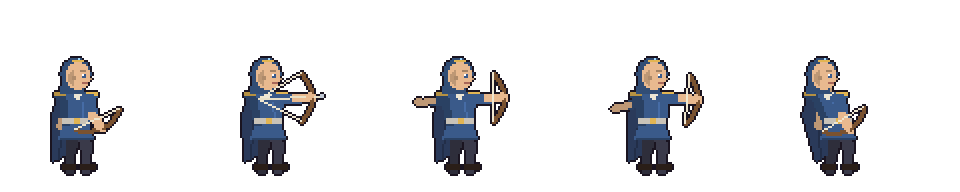
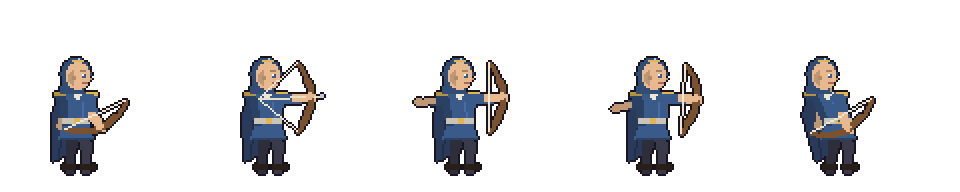
Weapon types locked to each character's starting type; forge events; bigger sniper bows
- Cast classes and their ascensions wield only the type of weapon the character
  starts with (Snipers can't use blades); Menders keep charms and arts
- Crusaders are given a Holy Sword alongside their staff or charm on ascending
- Snipers carry a bigger bow
- New events: The Old King's Forge (temper every weapon +1 with Weary Legs next
  fight, or +2 to one weapon) and The Weaponmaster (35 gold: trade a weapon up to the
  next tier of the same kind, or a 60 EXP lesson)
- New Yew Greatbow as the longbow's upgrade (keeps range 2–3)

Claude-Session: https://claude.ai/code/session_01U4Tdmi4d75jwBVR3wHrYsm

diff --git a/js/14b-cast.js b/js/14b-cast.js
@@ -4,7 +4,7 @@
    tattoo, scar, wraps (hand wraps), mask, voidFace, mist (dark mist round the hand), hand (casts from the open hand), el (spell glow colour),
    staff/orb (staff colours), nature (branch staff), jag (jagged daggers), dblAxe (two-headed axe), joust + lanceC (jousting lance),
    barding (horse armour), bolt / hem (robe trims), tails (sash ribbons), stance (idle: shoulder/low/guard/draw/high),
-   bracers (wristguards + shoulder plate), lapels, boots (tall boots), noCrown (no gold band when ascended),
+   bigBow (a larger bow), bracers (wristguards + shoulder plate), lapels, boots (tall boots), noCrown (no gold band when ascended),
    style also takes 'mane' (longer hair) and 'bunback', shield (round/kite/tower/aegis), gear also takes 'nursecap', prop ('lyre': held instead of a weapon).
    Preview them all: node tools/export-cast.mjs (writes docs/visuals/cast/). */
 
@@ -31,11 +31,12 @@ for(const n in CAST_CLASSES){const base=ensureCls('G.'+CAST_CLASSES[n]);const C=
 /* ---- the characters ----
    cls: their class, wk: the weapon they hold, look: their look.
    asc: one entry per ascension; its look is laid over the base look (wk is the weapon drawn in the previews).
-   swap: on ascending, this weapon in their bag becomes wk (only Holt: crossbow to longbow as a Sniper). */
+   swap: on ascending, this weapon in their bag becomes wk (only Holt: crossbow to longbow as a Sniper).
+   gain: on ascending, they're given this weapon too (Crusaders get a holy sword alongside their staff or charm). */
 const CAST=[
   /* ---- starting roster ---- */
   {id:'kili',name:'Kili',cls:'Archer',wk:'longbow',joins:'start',look:{style:'tail',hair:'#4a3426',skin:'#e8b98f',cloth:'#4a6a3a',pants:'#5a4a32',sash:'#7a5230',feather:['#efe6cf','#c8322e','#efe6cf'],eye:'#3a6a3a'},
-    asc:{'Sniper':{wk:'hawkeyeBow',look:{capeC:'#2f4a2a',cloth:'#3f5a32',feather:['#efe6cf','#c8322e','#efe6cf','#c8322e']}},
+    asc:{'Sniper':{wk:'hawkeyeBow',look:{bigBow:true,capeC:'#2f4a2a',cloth:'#3f5a32',feather:['#efe6cf','#c8322e','#efe6cf','#c8322e']}},
          'Bow Cavalry':{wk:'longbow',look:{capeC:'#5a4a32',horse:'#7a5230'}}}},
   {id:'vaar',name:'Vaar',cls:'Brawler',wk:'ironAxe',joins:'start',look:{style:'long',beard:true,hair:'#8a5a2a',skin:'#f3cfa6',cloth:'#6b4a2a',pants:'#4a3a2a',sash:'#a8743a',tattoo:'#3a6ab0',eye:'#3a5a8a'},
     asc:{'Berserker':{wk:'labrys',look:{style:'wild',capeC:'#5a4a3a',shawl:'#8a7a62',dblAxe:true,stance:'shoulder'}}}},
@@ -50,7 +51,7 @@ const CAST=[
          'Paladin':{look:{capeC:'#b8322e',horse:'#e8e2d0'}}}},
   {id:'maelis',name:'Maelis',cls:'Mender',wk:'runeStaff',joins:'start',look:{fem:true,style:'long',hair:'#6b4226',skin:'#f6dcc4',cloth:'#efe6cf',sash:'#e2b553',shawl:'#fff8e8',staff:'#e2b553',orb:'#fff2b0',eye:'#3a5a8a'},
     asc:{'Saint':{look:{gear:'circlet',capeC:'#fff8e8',collar:'#efe6cf'}},
-         'Crusader':{wk:'holySword',look:{metal:'#e8e2d0',shield:'kite',shieldC:'#efe6cf',capeC:'#e2b553',shawl:null}}}},
+         'Crusader':{wk:'holySword',gain:'holySword',look:{metal:'#e8e2d0',shield:'kite',shieldC:'#efe6cf',capeC:'#e2b553',shawl:null}}}},
   {id:'rook',name:'Rook',cls:'Rogue',wk:'twinBlades',joins:'start',look:{style:'wild',hair:'#1d1a24',skin:'#c98e62',cloth:'#3a3036',pants:'#2a2226',sash:'#5a4a3a',wraps:'#c9bfa8',jag:true,eye:'#2a2230'},
     asc:{'Duelist':{wk:'needle',look:{cloth:'#4a3a4a',sash:'#c8322e',capeC:'#2a2230',jag:null}},
          'Assassin':{wk:'stiletto',look:{gear:'hood',mask:'#4a4656',capeC:'#1e1a22',cloth:'#2a2230'}}}},
@@ -62,12 +63,12 @@ const CAST=[
   /* ---- found during the run (joins:'tavern' only at the tavern, 'event' only through their own event) ---- */
   {id:'aletta',name:'Aletta',cls:'Mender',wk:'spiritMend',joins:'tavern',look:{fem:true,style:'bun',hair:'#a8743a',skin:'#f3cfa6',cloth:'#5a8a5a',sash:'#efe6cf',shawl:'#dfe8d0',gear:'nursecap',eye:'#3a6a3a'},
     asc:{'Saint':{wk:'runeStaff',look:{gear:'circlet',capeC:'#dfe8d0',staff:'#e2b553',orb:'#9fe8c0'}},
-         'Crusader':{wk:'holySword',look:{gear:null,metal:'#b8d0b0',shield:'kite',shieldC:'#5a8a5a',capeC:'#3f6a3f',shawl:null}}}},
+         'Crusader':{wk:'holySword',gain:'holySword',look:{gear:null,metal:'#b8d0b0',shield:'kite',shieldC:'#5a8a5a',capeC:'#3f6a3f',shawl:null}}}},
   {id:'trent',name:'Trent',cls:'Cavalier',wk:'ironSpear',joins:'run',look:{style:'short',hair:'#3a2a20',skin:'#e8b98f',cloth:'#3f7a4a',metal:'#a9c4a2',horse:'#4a3426',eye:'#3a6a3a'},
     asc:{'Paladin':{look:{capeC:'#3f7a4a',metal:'#c4dcbc',shield:'kite',shieldC:'#3f7a4a'}},
          'Warlord':{look:{capeC:'#25603a',metal:'#7a9a72',beard:true,barding:'#1e3a24',joust:true,lanceC:'#e8e2d0'}}}},
   {id:'holt',name:'Holt',cls:'Crossbowman',wk:'crossbow',joins:'run',look:{style:'short',hair:'#e8e2d0',skin:'#e8b98f',cloth:'#3a5a8a',pants:'#3a3a4a',sash:'#c9c3b8',eye:'#3a5a8a'},
-    asc:{'Sniper':{wk:'longbow',swap:'crossbow',look:{gear:'hood',capeC:'#2a3a5a'}},
+    asc:{'Sniper':{wk:'longbow',swap:'crossbow',look:{bigBow:true,gear:'hood',capeC:'#2a3a5a'}},
          'Artillery':{look:{metal:'#9aa8c0',capeC:'#2a3a5a',beard:true}}}},
   {id:'sigrun',name:'Sigrun',cls:'Drake Rider',wk:'ironSpear',joins:'run',look:{body:'tunic',fem:true,style:'tail',hair:'#4a3a30',skin:'#f6dcc4',cloth:'#2a2630',pants:'#3a2430',sash:'#c8322e',shawl:'#a8322e',cape:true,capeC:'#6a2a5a',mount:'wyvern',horse:'#4f8a4a',eye:'#5a4a7a'}},
   {id:'kaya',name:'Kaya',cls:'Horse Archer',wk:'shortBow',joins:'run',look:{fem:true,style:'long',hair:'#d8c8ec',skin:'#e8b98f',cloth:'#8a6a4a',pants:'#5a4a32',sash:'#8a5a9a',horse:'#8a8f9a',eye:'#5a4a7a'}},
@@ -92,9 +93,15 @@ CAST.forEach(c=>{const base=castCls(c.cls);c.cls=base;
   if(c.asc){const asc={};for(const n in c.asc){const a=c.asc[n],look=Object.assign({},c.look,a.look);
     for(const k in look)if(look[k]==null)delete look[k];
     if(CAST_CLASSES[n].split('.')[1]!=='flying')delete look.mount;else if(!look.mount)look.mount='pegasus';
-    asc[castCls(n)]={n,wk:a.wk===undefined?c.wk:a.wk,swap:a.swap,look}}
+    asc[castCls(n)]={n,wk:a.wk===undefined?c.wk:a.wk,swap:a.swap,gain:a.gain,look}}
   c.asc=asc;CLS[base].asc=[...new Set([...(CLS[base].asc||[]),...Object.keys(asc)])];CLS[base].promo=CLS[base].asc[0]}});
 const castDef=id=>CAST.find(c=>c.id===id);
+/* weapon types: a cast class (and its ascensions) wields only the type its characters start with; Menders keep charms and
+   arts, and an ascension that gains a weapon (gain) adds that weapon's type */
+{const W={},add=(k,ts)=>(W[k]=W[k]||new Set(),ts.forEach(t=>W[k].add(t)));
+  for(const c of CAST){const ts=[c.wk?IT[c.wk].t:'spirit'];if(c.cls.split('.')[1]==='support')ts.push('spirit','art');add(c.cls,ts);
+    for(const k in c.asc){add(k,ts);if(c.asc[k].gain)add(k,[IT[c.asc[k].gain].t])}}
+  for(const k in W)CLS[k].w=[...W[k]]}
 
 /* ---- making cast units and offering them during a run ----
    The Crossroads offers starting-roster characters; whoever you don't take can turn up later.
@@ -125,4 +132,6 @@ function castJoined(u){if(u&&u.cast)(run.castUsed=run.castUsed||[]).push(u.cast)
 /* the look a cast unit takes on ascending into class k */
 function castLook(u,k){const c=u.cast&&castDef(u.cast),a=c&&c.asc[k];return a?clone(a.look):null}
 /* on ascending: swap the listed weapon for the ascension's one (keeps the slot) */
-function castSwap(u,to){const c=u.cast&&castDef(u.cast),a=c&&c.asc[to];if(!a||!a.swap)return;const it=u.items.find(i=>i.k===a.swap);if(it){it.k=a.wk;it.u=IT[a.wk].uses}}
+function castSwap(u,to){const c=u.cast&&castDef(u.cast),a=c&&c.asc[to];if(!a)return;
+  if(a.swap){const it=u.items.find(i=>i.k===a.swap);if(it){it.k=a.wk;it.u=IT[a.wk].uses}}
+  if(a.gain&&!u.items.some(i=>(IT[i.k].base||i.k)===a.gain)){if(u.items.length>=5){const j=u.items.findIndex(i=>IT[i.k].t==='item');if(j>=0)u.items.splice(j,1)}if(u.items.length<5)u.items.push({k:a.gain,u:IT[a.gain].uses})}}

diff --git a/js/20-events.js b/js/20-events.js
@@ -143,6 +143,18 @@ const EVENTS={
         if(d==='skip')return null;run.roster.splice(+d.slice(1),1)}
       run.roster.push(nu);castJoined(nu);sfx('item');return`The lock gives. <b>${nu.name}</b>, a ${CLS[nu.cls].n}, joins the squad.`}},
     {l:'Leave them',go:async()=>'You walk on. The traveller’s shouts follow you a long way.'}]}},
+  /* weapon upgrades */
+  forge:{t:'The Old King’s Forge',art:'smith',d:'A dwarven forge, cold for a century, roars back to life as you approach. The anvil is warm to the touch.',o:[
+    {l:'Temper every weapon',sub:'Each unit’s weapon +1 (up to +3); Weary Legs next fight',go:async()=>{const n=run.roster.filter(u=>{const w=weaponOf(u);return w&&forgeLv(w)<FORGE_MAX&&forge(w)}).length;addWoe('weary',1);sfx('item');
+      return n?`You work through the night. ${n} weapon${n>1?'s are':' is'} tempered (+1), and everyone is worn out for the next fight.`:'Nothing here can be tempered any further.'}},
+    {l:'Masterwork one weapon',sub:'+2 to one weapon (up to +3)',go:async()=>{
+      const u=await pickUnit('Whose weapon?','It gains two reforges.',u=>{const w=weaponOf(u);return!w?'No weapon':forgeLv(w)>=FORGE_MAX?'Already +3':null});
+      if(!u)return null;const w=weaponOf(u);forge(w);forge(w);sfx('item');return`The anvil sings. ${u.name}’s weapon comes back as the <b>${IT[w.k].n}</b>: Mt ${IT[w.k].mt}, Hit ${IT[w.k].hit}.`}}]},
+  weaponmaster:{t:'The Weaponmaster',art:'armoury',d:'A scarred weaponmaster sits behind a table of fine arms. “Your blades are a disgrace. Give me one, and coin, and I’ll give you something worthy.”',o:[
+    {l:'Trade up a weapon',sub:'35 gold: a better weapon of the same kind',cost:35,need:()=>run.roster.some(u=>{const w=weaponOf(u);return w&&tierUp(u,w)}),go:async()=>{
+      const u=await pickUnit('Whose weapon?','They get the next tier of the same weapon, keeping any reforging.',u=>{const w=weaponOf(u);return!w?'No weapon':tierUp(u,w)?null:'Nothing better for them'});
+      if(!u)return null;const w=weaponOf(u),old=IT[w.k].n,up=tierUp(u,w);w.k=up;w.u=IT[up].uses;spend(35);return`The weaponmaster weighs your ${old}, snorts, and hands over the <b>${IT[up].n}</b>: Mt ${IT[up].mt}, Hit ${IT[up].hit}.`}},
+    {l:'Ask for a lesson',sub:'One unit gains 60 EXP',go:async()=>{const u=await pickUnit('Who takes the lesson?','They gain 60 EXP.');if(!u)return null;await expAll([u],60);return`An hour of drills and bruises. ${u.name} gains 60 EXP.`}}]},
   /* Lysander joins only through this event */
   minstrel:{t:'The Wandering Minstrel',art:'veteran',ok:()=>!(run.castUsed||[]).includes('lysander')&&!run.roster.some(u=>u.cast==='lysander'),
     d:'A man in a feathered cap sits by the road, tuning a lyre. “Monster hunters! Every ballad needs heroes. Mind if I come along and write yours?”',o:null,make:()=>{const nu=castUnit('lysander',lvAvg());EVENTS.minstrel.card=`<div class="dcard on ev-card">${unitCard(nu)}</div>`;return[

diff --git a/js/09b-battle-rig.js b/js/09b-battle-rig.js
@@ -286,9 +286,10 @@ function drawHiWeapon(p,kind,w,c,h,a,P,hb,pt,limb,L={}){
   else if(kind==='spear'||kind==='javelin'){const f=kind==="javelin"?15:20,tip=pt(...h,a,f),bt=pt(...h,a+180,kind==='javelin'?6:10);limb(bt,tip,BROWN,2);
     p.poly([pt(...tip,a,7),pt(...tip,a+90,2.6),pt(...tip,a-90,2.6)],c.blade);limb(tip,pt(...tip,a,6),c.edge,1);if(kind==='spear')p.ell(...pt(...tip,a+180,1),1.6,1.6,RED)}
   /* bow / crossbow: limbs across the aim line; when drawn, the string goes to the back hand with an arrow */
-  else if(kind==='bow'||kind==='crossbow'){const b=a+90,tipA=pt(...pt(...h,b,12),a+180,5),tipB=pt(...pt(...h,b+180,12),a+180,5);
+  else if(kind==='bow'||kind==='crossbow'){const b=a+90,bs=L.bigBow?17:12,bc=L.bigBow?7:5,tipA=pt(...pt(...h,b,bs),a+180,bc),tipB=pt(...pt(...h,b+180,bs),a+180,bc);
     if(kind==='crossbow'){limb(pt(...h,a+180,8),pt(...h,a,6),BROWN,3);const f=pt(...h,a,5);limb(pt(...f,b,8),f,METAL2,2);limb(pt(...f,b+180,8),f,METAL2,2);limb(pt(...f,b,8),pt(...h,a+180,2),CREAM,1);limb(pt(...f,b+180,8),pt(...h,a+180,2),CREAM,1)}
-    else{let prev=tipA;for(let k=1;k<=8;k++){const t=-1+k/4,q=pt(...pt(...h,b,-12*t),a+180,5*t*t);limb(prev,q,c.hilt===RED?RED:BROWN,2);prev=q}
+    else{let prev=tipA;for(let k=1;k<=8;k++){const t=-1+k/4,q=pt(...pt(...h,b,-bs*t),a+180,bc*t*t);limb(prev,q,c.hilt===RED?RED:BROWN,L.bigBow&&Math.abs(t)<.6?3:2);prev=q}
+      if(L.bigBow){p.set(...tipA.map(Math.round),GOLD);p.set(...tipB.map(Math.round),GOLD)}
       const pull=P.draw?hb:null;if(pull){limb(tipA,pull,CREAM,1);limb(pull,tipB,CREAM,1);limb(pull,pt(...h,a,5),'#e8dfc6',1);p.poly([pt(...h,a,8),pt(...pt(...h,a,5),a+90,1.5),pt(...pt(...h,a,5),a-90,1.5)],METAL)}else limb(tipA,tipB,CREAM,1)}}
   /* staff: long shaft with an orb (ranged) or a crook (melee); glows when casting */
   else if(kind==='staff'&&L.nature){/* a tall gnarled branch staff with leaves around a glowing orb */const tip=pt(...h,a,22),bt=pt(...h,a+180,12),wd='#6a5232',o=L.orb||'#9fe8ff';limb(bt,tip,wd,2);p.set(...pt(...h,a,9),'#4a3a22');p.set(...pt(...h,a+180,5),'#4a3a22');

diff --git a/js/19-items-treasure.js b/js/19-items-treasure.js
@@ -5,6 +5,11 @@ function ensureIt(k){if(IT[k]||!k.includes('~'))return k;const[b,n]=k.split('~')
 function forgeLv(it){return IT[it.k].forge||0}
 function forge(it){const B=IT[it.k],n=(B.forge||0)+1;if(n>FORGE_MAX)return false;it.k=ensureIt((B.base||it.k)+'~'+n);return true}
 const STEEL={blade:'steelJian',heavy:'steelAxe',pole:'steelSpear',bow:'steelBow'};
+/* the Weaponmaster's trade-ups: each weapon line goes to its next tier, keeping the kind of weapon */
+const UPGRADE={ironJian:'steelJian',steelJian:'jadeJian',ironSpear:'steelSpear',steelSpear:'jadeSpear',ironAxe:'steelAxe',steelAxe:'jadeAxe',
+  shortBow:'steelBow',steelBow:'jadeBow',longbow:'greatbow',ironDao:'moonDao',dirk:'jadeFang',twinBlades:'jadeFang',stiletto:'jadeFang'};
+/* the next tier of a unit's weapon (keeps any reforging); null if there's nothing better */
+function tierUp(u,it){const B=IT[it.k],up=UPGRADE[B.base||it.k],f=B.forge||0;return up&&canUse(u,up)?(f?ensureIt(up+'~'+f):up):null}
 
 /* ---- shared pickers ---- */
 function itemText(k){return itemInfo({cls:'Heir',name:''},k).replace(/ · [^·]*can't (wield|use) this\./,'')}

diff --git a/js/01-data.js b/js/01-data.js
@@ -88,6 +88,7 @@ Object.assign(IT,{
   jadeAxe:{n:'Jade Axe',t:'heavy',kind:'axe',mt:11,hit:65,crit:30,r:[1,1],uses:25,tint:'jade',wt:10},
   jadeBow:{n:'Jade Bow',t:'bow',kind:'bow',mt:8,hit:75,crit:30,r:[2,2],uses:25,tint:'jade',wt:5},
   longbow:{n:'Longbow',t:'bow',kind:'bow',mt:6,hit:70,crit:0,r:[2,3],uses:30,wt:6},
+  greatbow:{n:'Yew Greatbow',t:'bow',kind:'bow',mt:9,hit:75,crit:0,r:[2,3],uses:30,wt:8,tint:'steel'},
   throwKnives:{n:'Throwing Knives',t:'blade',kind:'dagger',mt:3,hit:90,crit:10,r:[1,2],uses:30,thrown:true,wt:1},
   sparkT:{n:'Spark Sigil',t:'art',kind:'talisman',el:'lightning',mt:4,hit:95,crit:15,r:[1,2],uses:40,mag:true,wt:2},
   thunderhead:{n:'Thunderhead Sigil',t:'art',kind:'talisman',el:'lightning',mt:8,hit:75,crit:30,r:[1,2],uses:25,mag:true,wt:6},

diff --git a/art/manifest.js b/art/manifest.js
@@ -26,6 +26,7 @@ const ART_FILES=["bosses/crystal-heart",
 "icons/gauntlet",
 "icons/giantslayer",
 "icons/glimmer",
+"icons/greatbow",
 "icons/greaterMend",
 "icons/greatsword",
 "icons/hawkeyeBow",

diff --git a/docs/CHARACTERS.md b/docs/CHARACTERS.md
@@ -14,7 +14,7 @@ The cast, by when they can join. First names only for now. Kits are first drafts
 - **Lysander:** joins only through his event, The Wandering Minstrel.
 - **Act 2:** as it begins, two of the advanced characters offer to join (take one). From then on they're in the recruit and tavern pools too.
 - **Once a run:** each character joins at most once a run.
-- **Ascending:** characters keep their weapon when they ascend. The one exception is Holt, whose crossbow becomes a longbow when he ascends to Sniper.
+- **Weapons:** each character only ever wields the weapon type they start with (Menders: charms and arts), including after they ascend. They keep their weapon when they ascend, with two exceptions: Holt's crossbow becomes a longbow when he ascends to Sniper, and Crusaders are given a holy sword alongside their staff or charm.
 - **Sprites:** every character and ascension is drawn by the unit rig; see the Named cast section of `VISUALS.md`. Their looks are set in `js/14b-cast.js`.
 
 
